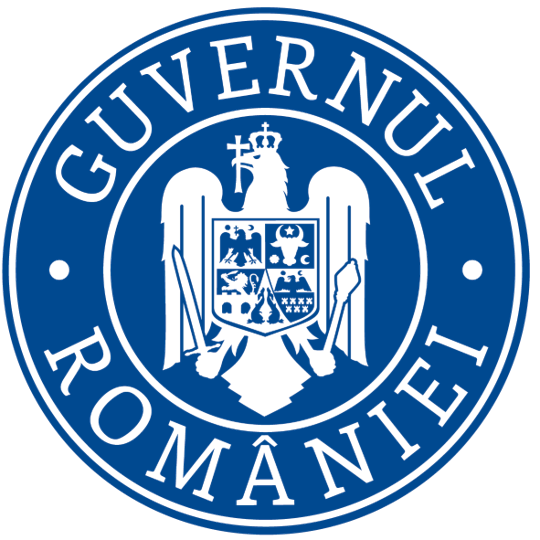
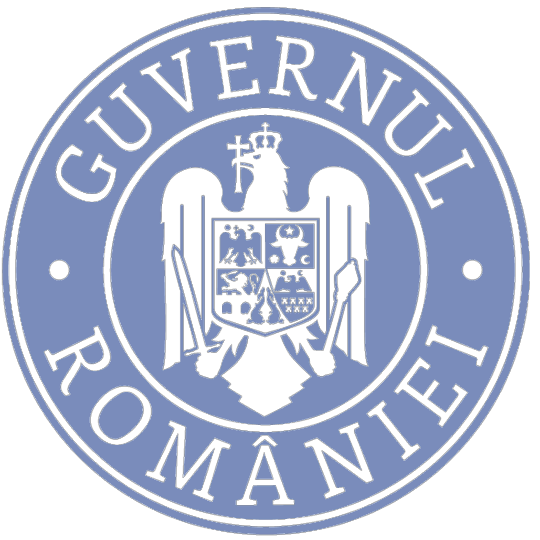
modified:   CSS/navigation.css 	modified:   Images/Stema.png

diff --git a/CSS/navigation.css b/CSS/navigation.css
@@ -31,16 +31,14 @@ li {
     display: flex;
     align-items: center;
     justify-content: space-between;
-    padding: 20px;
-    background-color:rgb(130, 218, 255);
-    color: rgb(132, 215, 250);
-    border-bottom: 3px solid #2f2f2f;
-    padding: 20px;
+    padding: 15px;
+    background-color:#2f2f2f;
+    border-bottom: 3px solid #141414;
 }   
 
 /* the menu buttons */
 .nav-links a {
-    color: #2f2f2f;
+    color: #ffffff;
 }
 
 /* the logo */
@@ -48,13 +46,14 @@ li {
     position: relative;
     left: 60px;
     font-size: 32px;  
-    text-shadow: 2px 2px #0d2332; 
-    color:rgb(55, 93, 182);
+    text-shadow: 2px 2px #4b5154; 
+    color:rgb(129, 160, 214);
 }
 
 /* the logo image */
 img {
     position: absolute;
+    color:#fff;
     width: 50px;
     height: 50px;
 }
@@ -86,8 +85,8 @@ img {
 .dropdown {
     border-radius: 5px;
     border-style: solid;
-    border-color: #2f2f2f;
-    background-color:rgb(130, 218, 255);
+    border-color: #141414;
+    background-color:#2f2f2f;
     padding: 1em 0;
     position: absolute; 
     display: none;
@@ -167,7 +166,7 @@ img {
 } 
 
 .seeMore:hover {
-    background-color: rgb(80, 121, 216);
+    background-color: rgb(129, 160, 214);
 }
   
 
